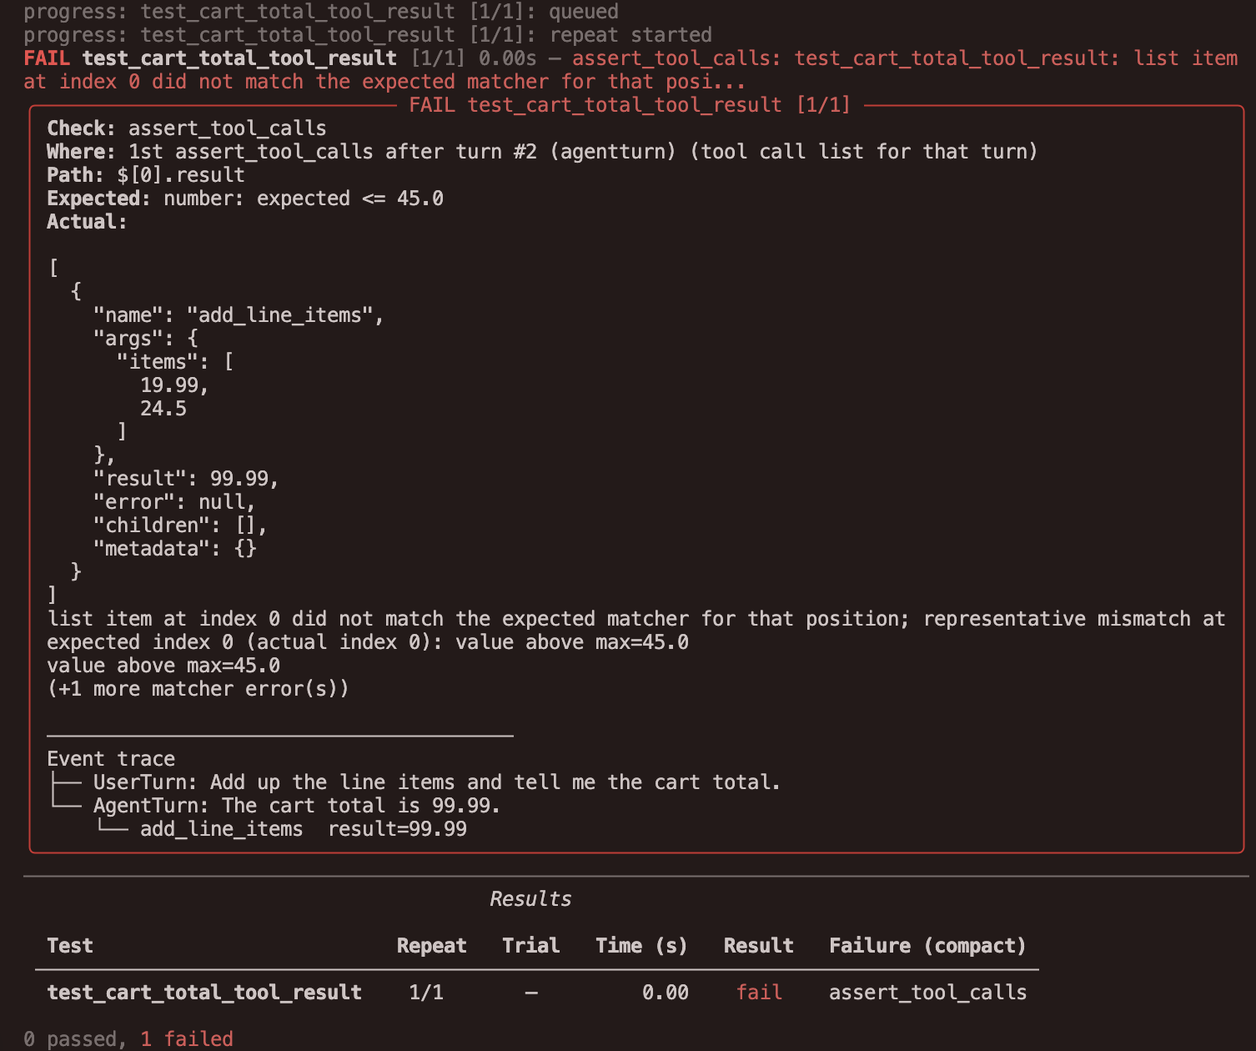
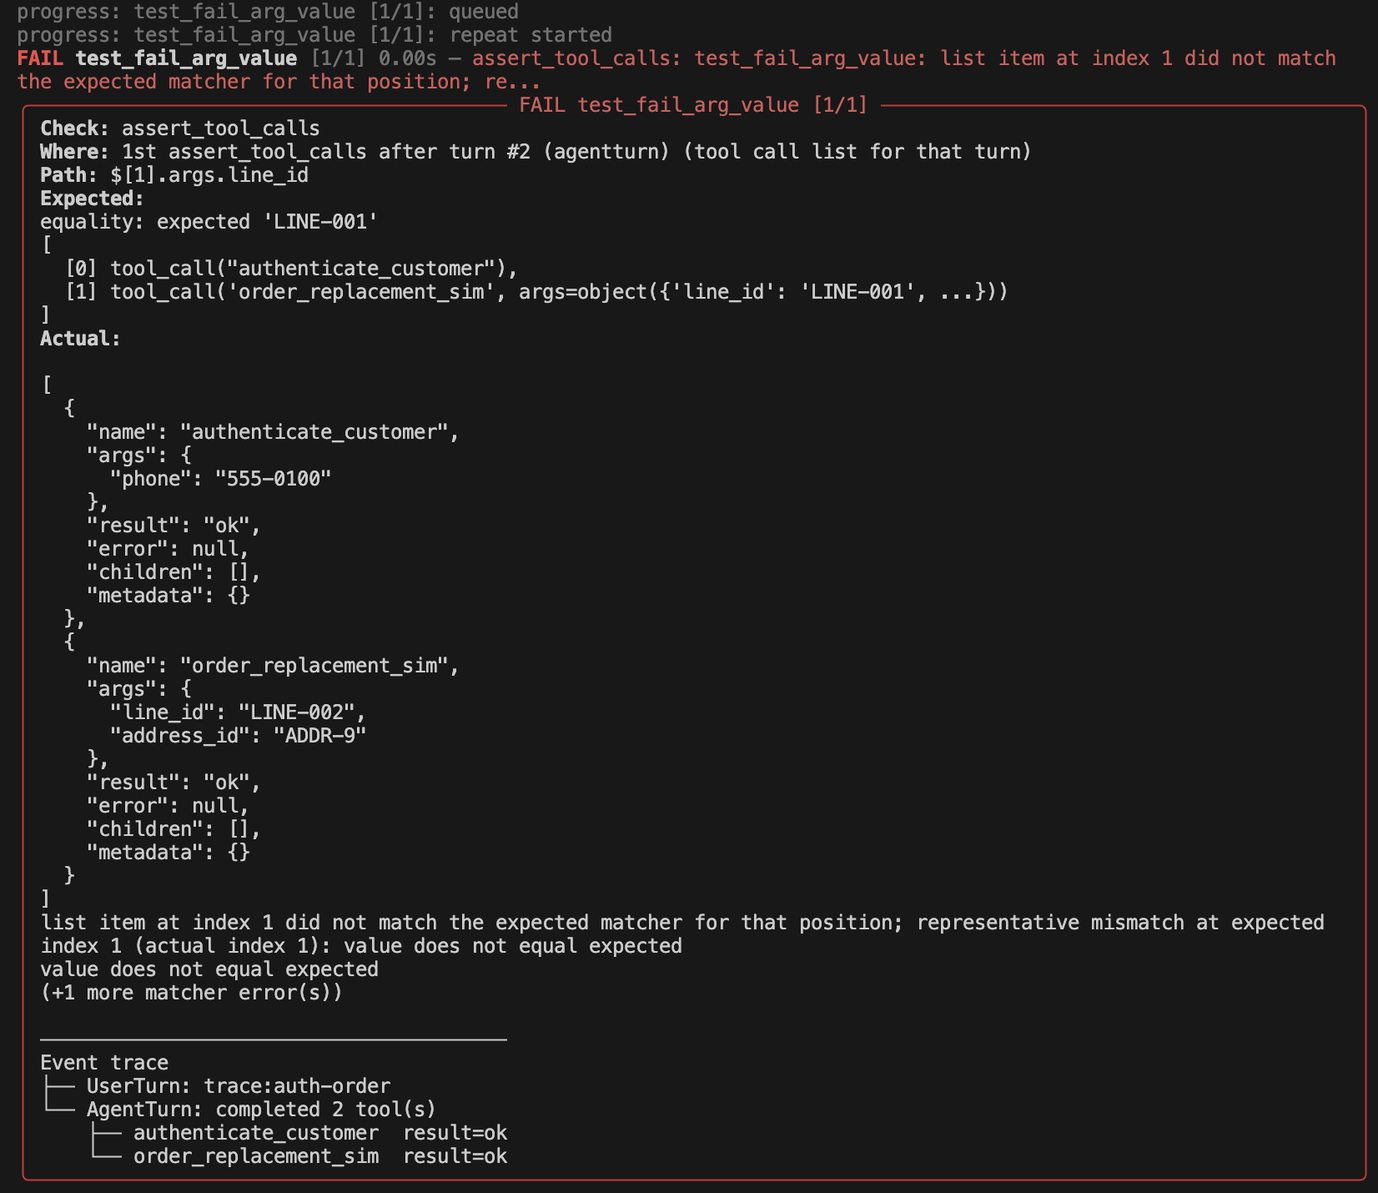
better tool errors and explanation of the loc study

diff --git a/MEng_Final_Report/evaluation/expressiveness.tex b/MEng_Final_Report/evaluation/expressiveness.tex
@@ -61,9 +61,9 @@ Multi-turn memory & 19 & 26 & 55 & 69 & 20 & 24 & 42 & 79 \\
 \end{tabular}
 \end{table}
 
-Promptfoo remains among the more concise ports (126 lines): checks are mostly declarative \texttt{assert} entries in \texttt{promptfooconfig.yaml}, with trajectory rules expressed as compact assertion types. The LOC measure counts only the body of each check---trace extraction, evaluator or metric configuration, and result capture---and excludes harness code outside the marked region. Libraries that repeat evaluator boilerplate in every specimen therefore total higher: DeepEval (496), Pydantic Evals (532), LangSmith and Ragas (303 each), then Braintrust (172) and plain pytest (167). \emph{agent-spec-kit} totals 165 and remains competitive because the scenario DSL expresses whole checks in one block; the gap to metric-oriented libraries reflects wiring that must be duplicated when a library offers no compact declarative check form.
+Promptfoo remains among the more concise ports (126 lines): checks are mostly declarative \texttt{assert} entries in \texttt{promptfooconfig.yaml}, with trajectory rules expressed as compact assertion types rather than imperative trace code. The LOC measure counts only the body of each check (trace extraction, evaluator or metric configuration, and result capture) and excludes harness code outside the marked region. Totals therefore rise when a library expects the same plumbing repeated in every specimen: trace normalisation, metric construction, and result capture each add lines even when the policy under test is simple. Metric-oriented libraries (LangSmith, Ragas, DeepEval, Pydantic Evals, Braintrust) occupy the upper half of Table~\ref{tab:expressiveness-loc} at roughly two to three times the line count of the declarative band; authors must configure evaluators and map trace fields into library schemas in every specimen, and readers must chase that wiring before the policy under test becomes visible. \emph{agent-spec-kit} totals 165 lines and stays in the concise band because its scenario DSL states the whole check (stimulus, tool expectations, and assertions) in one contiguous block; a reader can follow a specimen from user script to oracle without adapters, sidecar configs, or per-specimen metric boilerplate.
 
-Plain pytest totals 167 lines because trace walking and field guards appear in each check body. \emph{agent-spec-kit} totals 165 and sits below every metric-oriented library while remaining in the same band as pytest. Line count alone therefore understates how easy checks are to maintain when much of the apparent difference is where the code lives, not how much logic each check requires. The clarity study below judges readability directly: on a first read, is the \emph{intent} of each check obvious, or do you have to trace through helper code and framework wiring before you see what is being tested? Table~\ref{tab:expressiveness-authoring-clarity} and the listings that follow compare frameworks on that question specimen by specimen.
+Plain pytest reaches a similar total (167 lines) only by reintroducing the same trace-walking and field-guard patterns in nearly every check body. \emph{agent-spec-kit} therefore matches pytest on raw line count while doing more per line: composable matchers replace bespoke guards, and the shared scenario vocabulary carries across all twelve specimens rather than twelve slightly different ad-hoc scripts. The extra bulk in metric-oriented ports is not cosmetic: it reflects real authoring effort and slower first-read comprehension, even when much of the gap is where code lives rather than how much policy logic each check expresses. The clarity study below judges readability directly: on a first read, is the \emph{intent} of each check obvious, or do you have to trace through helper code and framework wiring before you see what is being tested? Table~\ref{tab:expressiveness-authoring-clarity} and the listings that follow compare frameworks on that question specimen by specimen.
 
 \subsection{Authoring clarity (LLM-judged)}
 
@@ -236,7 +236,7 @@ Multi-turn memory & A & D & B & B & B & B & B & B \\
 \end{tabular}
 \end{table}
 
-\emph{agent-spec-kit} scores \textbf{A} on eleven of twelve specimens and \textbf{B} on final-state only: failures routinely name the check, where it ran in the dialogue, a JSON path, and expected-vs-actual witnesses. Plain pytest is almost always \textbf{D} on trace-heavy checks (bare \texttt{AssertionError}) and only reaches \textbf{B} when authors hand-write a field-level message (C07). LangSmith, Pydantic Evals, Promptfoo, Braintrust, Ragas, and DeepEval cluster at \textbf{B} or \textbf{C}: they identify the rule, field, or metric but rarely expose structured counterexamples; Ragas \texttt{ToolCallAccuracy} on C07 returns only a scalar score (\textbf{C}). DeepEval \texttt{ToolCorrectnessMetric} and \texttt{JsonCorrectnessMetric} surface longer natural-language reasons (\textbf{B}) when checks fail. The listings below demonstrate this.
+\emph{agent-spec-kit} scores \textbf{A} on eleven of twelve specimens and \textbf{B} on final-state only: failures routinely name the check, where it ran in the dialogue, a JSON path, and expected-vs-actual witnesses; on tool checks the \texttt{Expected} block renders the scenario spec in focused form (Section~\ref{sec:matcher-spec-repr}). Plain pytest is almost always \textbf{D} on trace-heavy checks (bare \texttt{AssertionError}) and only reaches \textbf{B} when authors hand-write a field-level message (C07). LangSmith, Pydantic Evals, Promptfoo, Braintrust, Ragas, and DeepEval cluster at \textbf{B} or \textbf{C}: they identify the rule, field, or metric but rarely expose structured counterexamples; Ragas \texttt{ToolCallAccuracy} on C07 returns only a scalar score (\textbf{C}). DeepEval \texttt{ToolCorrectnessMetric} and \texttt{JsonCorrectnessMetric} surface longer natural-language reasons (\textbf{B}) when checks fail. The listings below demonstrate this.
 
 \subsection{Illustrative failure messages}
 
@@ -248,7 +248,9 @@ Multi-turn memory & A & D & B & B & B & B & B & B \\
 | Check: forbid_tool_calls                                                       |
 | Where: 1st forbid_tool_calls after turn #1 (forbidden tool call patterns)      |
 | Path: $[1]                                                                     |
-| Expected: forbidden_tool_call: expected no 'apply_bill_credit'                 |
+| Expected:                                                                      |
+| forbidden_tool_call: expected no 'apply_bill_credit'                           |
+| must not call tool_call('apply_bill_credit')                                   |
 | Actual:                                                                        |
 |   [0] get_customer_profile(customer_id='CUST-OTHER') -> None                   |
 |   [1] apply_bill_credit(amount=10) -> ok                                       |
@@ -287,7 +289,12 @@ Multi-turn memory & A & D & B & B & B & B & B & B \\
 | Check: assert_tool_calls                                                       |
 | Where: 1st assert_tool_calls after turn #1 (tool call list for that turn)      |
 | Path: $[1].args.line_id                                                        |
-| Expected: equality: expected 'LINE-001'                                        |
+| Expected:                                                                      |
+| equality: expected 'LINE-001'                                                  |
+| [                                                                              |
+|   [0] tool_call("authenticate_customer"),                                      |
+|   [1] tool_call('get_line_status', args=object({'line_id': 'LINE-001'}))       |
+| ]                                                                              |
 | Actual:                                                                        |
 |   [0] authenticate_customer() -> ok                                            |
 |   [1] get_line_status(line_id='LINE-002') -> {data_enabled=True}               |
@@ -326,7 +333,13 @@ Multi-turn memory & A & D & B & B & B & B & B & B \\
 +------------------------ agent_spec_kit (C10)  grade A -------------------------+
 | Check: assert_tool_calls                                                       |
 | Where: 1st assert_tool_calls after turn #1 (tool call list for that turn)      |
-| Expected: list_too_short: expected >= 2                                        |
+| Path: $                                                                         |
+| Expected:                                                                      |
+| list_too_short: expected >= 2                                                  |
+| [                                                                              |
+|   [0] tool_call('heartbeat_ping'),                                             |
+|   [1] tool_call('get_line_status')                                             |
+| ]                                                                              |
 | Actual:                                                                        |
 |   [0] heartbeat_ping() -> ok                                                   |
 | list is too short: need at least 2 item(s) to match all expected values (order |

diff --git a/MEng_Final_Report/methodology/counterexamples.tex b/MEng_Final_Report/methodology/counterexamples.tex
@@ -25,7 +25,7 @@ Human-readable placement (e.g.\ second \texttt{assert\_tool\_calls} after turn 3
 \texttt{path} &
 JSON-pointer into structured actuals (\texttt{\$.args.line\_id}). \\
 \texttt{expected\_summary} / \texttt{actual\_min} &
-Contrast without dumping entire traces twice. \\
+Contrast without dumping entire traces twice; for tool checks, \texttt{expected\_summary} pairs a matcher hint with a path-focused spec excerpt (Section~\ref{sec:matcher-spec-repr}). \\
 \texttt{notes} &
 Extra context (e.g.\ per-criterion \texttt{llm\_criteria} rationales). \\
 \texttt{events} &
@@ -85,9 +85,37 @@ Infrastructure, tool exception, or bad observation. \\
 \label{tab:failure-hints}
 \end{table}
 
-Tool-call failures often include witness data listing expected and actual tool names in order, which is easier to scan than dumping the entire trace twice. Witness JSON on \texttt{MatchError} can also carry abbreviated actual values for list-length mismatches, so the expected summary in the panel can read ``expected tools in order: \texttt{auth}, \texttt{get\_line\_status}; got 1: \texttt{auth}'' without repeating every argument blob. Environment-only failures may not have a JSON path; the counterexample still records the step kind and human-readable location detail (for example ``second \texttt{assert\_tool\_calls} after turn 3 (agent turn)'').
+Environment-only failures may not have a JSON path; the counterexample still records the step kind and human-readable location detail (for example ``second \texttt{assert\_tool\_calls} after turn 3 (agent turn)'').
 
 For display, the trace window keeps the last few agent turns with interleaved user lines so panels stay readable. LangGraph adapters sometimes emit redundant root event shells; the trace builder flattens those so tool nodes appear directly under the relevant user line in the tree.
+
+Tool-call failures often include witness data listing expected and actual tool names in order, which is easier to scan than dumping the entire trace twice; Section~\ref{sec:matcher-spec-repr} explains in more detail how path, witness, and author spec combine into the \texttt{Expected} and \texttt{Actual} blocks.
+
+\subsection{Readable Expected Lines for Tool Failures}
+\label{sec:matcher-spec-repr}
+
+Tool assertions are written as rich specs: which tools should run, in what order, and with which arguments. When a check fails, the framework still knows the exact field that broke, but the default error text is often vague (for example ``each list item to match the expected matcher at the same index''). The counterexample therefore prints the author's spec back in readable form, cut down to the part around that failure.
+
+The failure panel includes a \texttt{Path} line such as \texttt{\$[1].args.line\_id}, which names the precise slot that did not match: the second tool in the list, its \texttt{args}, and the \texttt{line\_id} field inside them. The display step uses that path as a guide. It shows the expected value at that slot in full, plus enough of the surrounding spec to explain the policy, and shortens everything else. Other tools in the list may appear as names only; unrelated argument fields may be left out or marked with \texttt{...}. The \texttt{Expected} block starts with a one-line hint (\texttt{equality: expected 'LINE-001'}) and then the trimmed spec. The \texttt{Actual} block shows what the agent recorded instead (here \texttt{LINE-002}).
+
+Implementation-wise, the printer walks the spec in the same top-down order as the assertion (tool list, then each tool's fields, then nested \texttt{args} keys). At every step it compares its current position to the failure path. Segments that lie on the path are expanded; segments that branch away are \emph{stubbed} to a short form (a tool name only, or \texttt{...} for a skipped field). Segments far from the failure may be dropped entirely if the panel would otherwise grow too long. The result is not a second copy of the whole spec, but a single pass that keeps what the path points at and thins out the rest.
+
+Listing~\ref{lst:matcher-spec-repr-example} walks through a two-tool trace where \texttt{line\_id} was wrong on the second call: expected \texttt{LINE-001}, got \texttt{LINE-002}. Only the second tool's \texttt{args} are expanded; the first tool is shown by name alone.
+
+\begin{lstlisting}[caption={Example failure panel excerpt: path, \texttt{Expected}, and \texttt{Actual} for a tool-argument mismatch.},label=lst:matcher-spec-repr-example,basicstyle=\small\ttfamily]
+Path: $[1].args.line_id
+Expected:
+equality: expected 'LINE-001'
+[
+  [0] tool_call("authenticate_customer"),
+  [1] tool_call("get_line_status", args={"line_id": "LINE-001", ...})
+]
+Actual:
+  [0] authenticate_customer() -> ok
+  [1] get_line_status(line_id='LINE-002') -> {data_enabled=True}
+\end{lstlisting}
+
+\texttt{forbid\_tool\_calls} follows the same shape but uses \texttt{must not call ...} wording, because the path points at a tool that should not have appeared.
 
 \subsection{Agent-Update Workflow}
 

diff --git a/MEng_Final_Report/evaluation/summary.tex b/MEng_Final_Report/evaluation/summary.tex
@@ -5,7 +5,7 @@ This chapter evaluated how well \emph{agent-spec-kit} surfaces multi-faceted age
 
 The baseline run on the reference agent illustrated why that breadth matters. One hundred and forty-six of two hundred oracle slots passed, yet failures clustered on trace, state, and full lanes: the agent could sound reasonable while tool ordering was wrong, an argument was bound incorrectly, or a store update never happened. That is one reason a library built only around answer grading is not enough, even when other stacks can technically reach deeper checks if you invest in glue code.
 
-The expressiveness study made the library comparison concrete across twelve check patterns and eight frameworks (pytest, LangSmith, Pydantic Evals, Promptfoo, Braintrust, Ragas, and DeepEval). Checks written in the scenario language read as a short script: customer turns, tool expectations, output rubrics, and state assertions in sequence, without jumping between files to learn what is being tested. \emph{agent-spec-kit} totals 165 lines of check logic and scores \textbf{A} on authoring clarity for all twelve specimens; metric-oriented libraries total more when each check carries its own trace parsing, evaluator class, and test-case construction---DeepEval and Pydantic Evals reach 496 and 532 lines respectively. When examples are meant to fail, built-in matchers usually name the check, where it fired, and what differed; reimplementations in pytest and commercial-style libraries often stop at \texttt{AssertionError} or a zero score, while Ragas built-in tool metrics sometimes return only a scalar and DeepEval surfaces longer natural-language reasons from \texttt{ToolCorrectnessMetric} and \texttt{JsonCorrectnessMetric}. That specificity matters in day-to-day work: the developer sees which tool, field, or store fact broke, not only that something failed, which shortens the loop from red test to fix.
+The expressiveness study made the library comparison concrete across twelve check patterns and eight frameworks (pytest, LangSmith, Pydantic Evals, Promptfoo, Braintrust, Ragas, and DeepEval). Checks written in the scenario language read as a short script: customer turns, tool expectations, output rubrics, and state assertions in sequence, without jumping between files to learn what is being tested. \emph{agent-spec-kit} totals 165 lines of check logic and scores \textbf{A} on authoring clarity for all twelve specimens; metric-oriented libraries total more when each check carries its own trace parsing, evaluator class, and test-case construction. DeepEval and Pydantic Evals reach 496 and 532 lines respectively. When examples are meant to fail, built-in matchers usually name the check, where it fired, and what differed; reimplementations in pytest and commercial-style libraries often stop at \texttt{AssertionError} or a zero score, while Ragas built-in tool metrics sometimes return only a scalar and DeepEval surfaces longer natural-language reasons from \texttt{ToolCorrectnessMetric} and \texttt{JsonCorrectnessMetric}. That specificity matters in day-to-day work: the developer sees which tool, field, or store fact broke, not only that something failed, which shortens the loop from red test to fix.
 
 The fault-injection study carried that into regression testing. On baseline-passing task-and-lane pairs, the full checks \emph{agent-spec-kit} expresses caught most injected ordering and binding faults, along with side effects that should not have occurred; narrower lanes missed several of the same injections. Richer checks are what stop an agent change from silently breaking tool choreography or environment invariants while the reply still sounds fine. When those checks fail, structured counterexamples rather than opaque booleans let a developer see what broke and fix it quickly, which is how teams keep agents reliable as prompts or tool wiring change.
 

diff --git a/MEng_Final_Report/methodology/architecture.tex b/MEng_Final_Report/methodology/architecture.tex
@@ -53,6 +53,6 @@ For each \texttt{user\_message}, the runner invokes \texttt{AdaptedAgent.run\_tu
 
 The failure path is deliberately three-layered so matchers stay reusable and reporting stays stable. Matchers emit \texttt{MatchError} values with JSON-pointer paths and optional witness JSON. The scenario runner wraps those in a \texttt{FailureRecord} that records which step kind failed, which turn and assertion index applied, and a snapshot of the transcript. \texttt{counterexample\_from\_failure} then produces the developer-facing \texttt{Counterexample} consumed identically by the CLI Rich panel and the web FailureCard. Section~\ref{sec:counterexamples} develops that story in full.
 
-The implementation is split across modules so each layer can evolve independently. \texttt{scenario\_core.py} implements the fluent scenario DSL and step dispatch. \texttt{runner.py} orchestrates jobs, fixture teardown, and timeouts. \texttt{match/} implements coercion, object and list matchers, tool-call shapes, and LLM criteria judges. \texttt{failures.py} and \texttt{cli\_reporting.py} turn matcher errors into developer-facing panels. \texttt{integrations/} adapts LangChain and Pydantic AI graphs to the event model. \texttt{cli.py} and \texttt{result\_store.py} persist run metadata, transcripts, and counterexample blobs under \texttt{.agent\_spec\_kit/}.
+The implementation is split across modules so each layer can evolve independently. \texttt{scenario\_core.py} implements the fluent scenario DSL and step dispatch. \texttt{runner.py} orchestrates jobs, fixture teardown, and timeouts. \texttt{match/} implements coercion, object and list matchers, tool-call shapes, LLM criteria judges, and readable rendering of matcher specs for failure panels. \texttt{failures.py} and \texttt{cli\_reporting.py} turn matcher errors into developer-facing panels. \texttt{integrations/} adapts LangChain and Pydantic AI graphs to the event model. \texttt{cli.py} and \texttt{result\_store.py} persist run metadata, transcripts, and counterexample blobs under \texttt{.agent\_spec\_kit/}.
 
 The next sections unpack the scenario language and matchers introduced in Listing~\ref{lst:architecture-motivating}, then counterexamples, integrations, optional generative features, and the execution workflow.

diff --git a/src/agent_spec_kit/failures.py b/src/agent_spec_kit/failures.py
@@ -348,6 +348,11 @@ def _summarize_list_length_mismatch(
     return _short(f"{err.code}: expected {err.expected}", 200), str(wit.get("actual_witness", record.actual)), [err.message]
 
 
+def _matcher_expected_hint(err: MatchError) -> str:
+    """One-line expected contrast from the deepest :class:`MatchError`."""
+    return f"{err.code}: expected {err.expected}"
+
+
 def _summarize_matcher_counterexample(record: FailureRecord, err: MatchError, wit: dict[str, Any]) -> tuple[str, str, list[str]]:
     notes: list[str] = []
     if err.code == "list_length_mismatch":
@@ -366,7 +371,9 @@ def _summarize_matcher_counterexample(record: FailureRecord, err: MatchError, wi
         record.matcher_spec is not None
         and record.step_kind == "forbid_tool_calls"
     ):
-        exp_line = format_forbidden_spec(record.matcher_spec, max_len=600)
+        hint = _matcher_expected_hint(err)
+        spec_line = format_forbidden_spec(record.matcher_spec, max_len=600)
+        exp_line = f"{hint}\n{spec_line}" if spec_line else hint
         actual_min: Any = wit.get("actual_witness", record.actual)
         notes.append(err.message)
         return exp_line, _format_actual_value(actual_min), notes
@@ -375,8 +382,9 @@ def _summarize_matcher_counterexample(record: FailureRecord, err: MatchError, wi
         record.matcher_spec is not None
         and record.step_kind == "assert_tool_calls"
     ):
+        hint = _matcher_expected_hint(err)
         spec_line = format_spec_at_path(record.matcher_spec, err.path, max_len=600)
-        exp_line = spec_line
+        exp_line = f"{hint}\n{spec_line}" if spec_line else hint
         actual_min = wit.get("actual_witness", record.actual)
         notes.append(err.message)
         return exp_line, _format_actual_value(actual_min), notes

diff --git a/MEng_Final_Report/methodology/match_system.tex b/MEng_Final_Report/methodology/match_system.tex
@@ -71,7 +71,7 @@ m.tool_call(
 )
 \end{lstlisting}
 
-\texttt{forbid\_tool\_calls} expresses negative expectations (a credit tool must not appear). Ordered lists require the spec sequence to appear as a subsequence when \texttt{allow\_extras=True}, or as an exact length match when extras are disallowed. Unordered lists treat the spec as a multiset of required calls, which suits parallel specialist tools that may complete in either order. When the list length differs from the spec, witness metadata on the matcher error can name expected versus actual tool sequences, which feeds readable summaries in the failure panel.
+\texttt{forbid\_tool\_calls} expresses negative expectations (a credit tool must not appear). Ordered lists require the spec sequence to appear as a subsequence when \texttt{allow\_extras=True}, or as an exact length match when extras are disallowed. Unordered lists treat the spec as a multiset of required calls, which suits parallel specialist tools that may complete in either order. When the list length differs from the spec, witness metadata on the matcher error can name expected versus actual tool sequences, which feeds readable summaries in the failure panel as described in Section~\ref{sec:matcher-spec-repr}.
 
 Tool-call matching runs on the normalised dictionaries produced by integrations (Section~\ref{sec:integrations}): each call exposes \texttt{name}, \texttt{args}, optional \texttt{result}, and nested \texttt{children} when subgraph streaming is enabled. That normalisation is what allows the same \texttt{m.tool\_call} spec to run against LangGraph and Pydantic AI without scenario changes.
 

diff --git a/tests/test_failures.py b/tests/test_failures.py
@@ -155,6 +155,7 @@ def test_counterexample_uses_deepest_inner_path_for_tool_call_mismatch() -> None
     cx = counterexample_from_failure(record)
     assert cx.path == "$[0].args.a"
     assert "mismatch at $[0].args.a" in cx.headline
+    assert "equality: expected 7" in cx.expected_summary or "expected 7" in cx.expected_summary
     assert "7" in cx.expected_summary
     assert "each list item" not in cx.expected_summary.lower()
     assert isinstance(cx.actual_min, list)
